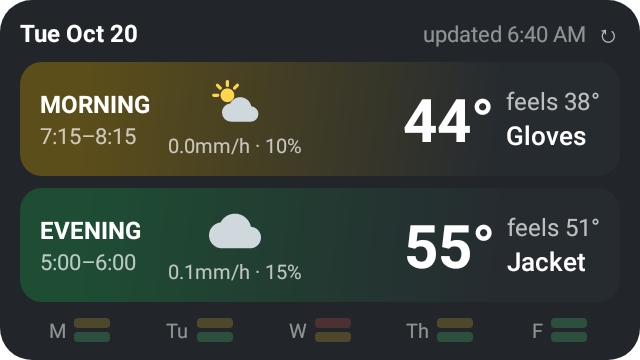
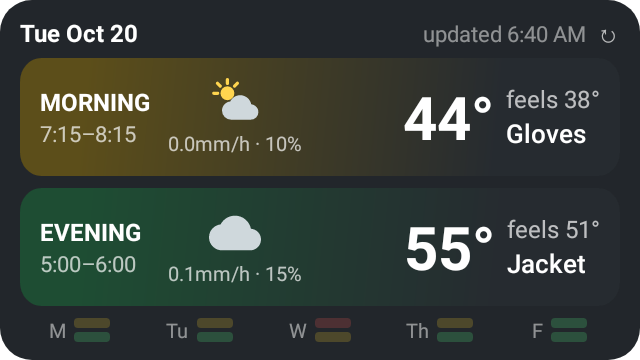
Add stopped feels-like and worst-case wind mode
Each row's third line now shows how the worst bucket feels standing
still (self-speed 0, ambient wind only) — the stopped-at-a-light number,
which is the true worst case in summer heat.

New windCombine mode "worst" (now the default): evaluate AT under both
quadrature (more wind) and max(self, ambient) (less wind) and keep
whichever lands further from the ideal pivot. Quadrature always yields
more wind, so this is exactly "full wind chill when cold, least wind
relief when hot" with no threshold discontinuity.

Claude-Session: https://claude.ai/code/session_01GL4r9EnAW5qPBhsxD8CyMR

diff --git a/app/src/main/java/com/bikeability/commute/domain/ComfortEngine.kt b/app/src/main/java/com/bikeability/commute/domain/ComfortEngine.kt
@@ -23,7 +23,7 @@ fun cToF(c: Double): Double = c * 9.0 / 5.0 + 32.0
 fun effectiveWindMs(selfSpeedMph: Double, ambientMs: Double, mode: WindCombine): Double {
     val selfMs = selfSpeedMph * MPH_TO_MS
     return when (mode) {
-        WindCombine.QUADRATURE -> sqrt(selfMs * selfMs + ambientMs * ambientMs)
+        WindCombine.QUADRATURE, WindCombine.WORST_CASE -> sqrt(selfMs * selfMs + ambientMs * ambientMs)
         WindCombine.MAX -> max(selfMs, ambientMs)
     }
 }
@@ -35,6 +35,10 @@ fun vapourPressureHpa(tempC: Double, relHumidityPct: Double): Double =
 /**
  * Steadman Apparent Temperature, radiation-inclusive form, with the effective
  * cycling airspeed in both the convective term and the solar-damping denominator.
+ *
+ * WORST_CASE mode evaluates both wind combines and keeps the AT further from
+ * the ideal pivot: quadrature always yields more wind than max, so this is
+ * "full wind chill when cold, least wind relief when hot" — no threshold.
  */
 fun apparentTemperature(
     tempC: Double,
@@ -43,7 +47,33 @@ fun apparentTemperature(
     shortwaveWm2: Double,
     params: EngineParams,
 ): AtBreakdown {
-    val ws = effectiveWindMs(params.selfSpeedMph, ambientWindMs, params.windCombine)
+    if (params.windCombine == WindCombine.WORST_CASE) {
+        val quad = steadman(tempC, relHumidityPct, ambientWindMs, shortwaveWm2, params, WindCombine.QUADRATURE)
+        val maxed = steadman(tempC, relHumidityPct, ambientWindMs, shortwaveWm2, params, WindCombine.MAX)
+        return maxOf(quad, maxed, compareBy { abs(cToF(it.apparentTempC) - params.idealPivotF) })
+    }
+    return steadman(tempC, relHumidityPct, ambientWindMs, shortwaveWm2, params, params.windCombine)
+}
+
+/** Feels-like for the same conditions while stopped: no self-generated airflow. */
+fun apparentTemperatureStopped(
+    tempC: Double,
+    relHumidityPct: Double,
+    ambientWindMs: Double,
+    shortwaveWm2: Double,
+    params: EngineParams,
+): AtBreakdown =
+    steadman(tempC, relHumidityPct, ambientWindMs, shortwaveWm2, params.copy(selfSpeedMph = 0.0), WindCombine.QUADRATURE)
+
+private fun steadman(
+    tempC: Double,
+    relHumidityPct: Double,
+    ambientWindMs: Double,
+    shortwaveWm2: Double,
+    params: EngineParams,
+    mode: WindCombine,
+): AtBreakdown {
+    val ws = effectiveWindMs(params.selfSpeedMph, ambientWindMs, mode)
     val e = vapourPressureHpa(tempC, relHumidityPct)
     val q = params.solarGainK * shortwaveWm2
     return AtBreakdown(
@@ -141,10 +171,12 @@ fun aggregateWindow(samples: List<WeatherSample>, params: EngineParams): WindowR
         .maxBy { (_, bd) -> abs(cToF(bd.apparentTempC) - params.idealPivotF) }
         .let { (s, bd) ->
             val feelsF = cToF(bd.apparentTempC)
+            val stopped = apparentTemperatureStopped(s.tempC, s.relHumidityPct, s.ambientWindMs, s.shortwaveWm2, params)
             WorstHour(
                 time = s.time,
                 airTempF = cToF(s.tempC),
                 feelsLikeF = feelsF,
+                stoppedFeelsLikeF = cToF(stopped.apparentTempC),
                 category = categoryFor(feelsF, params.tempBoundsF),
                 breakdown = bd,
             )

diff --git a/app/src/test/java/com/bikeability/commute/domain/ComfortEngineTest.kt b/app/src/test/java/com/bikeability/commute/domain/ComfortEngineTest.kt
@@ -77,6 +77,41 @@ class ComfortEngineTest {
         assertEquals(16.0 * MPH_TO_MS, effectiveWindMs(16.0, 2.0, WindCombine.MAX), 1e-9)
     }
 
+    // ---- stopped feels-like and worst-case wind ----
+
+    @Test
+    fun `stopped feels-like drops the self-generated airflow`() {
+        // Golden case 2 conditions: riding feels ~22.6 F, stopped only ambient 5 m/s.
+        val stopped = cToF(apparentTemperatureStopped(3.0, 70.0, 5.0, 100.0, params).apparentTempC)
+        assertEquals(27.4, stopped, 0.2)
+        // Golden case 1: hot sun with little wind relief when stopped.
+        val hotStopped = cToF(apparentTemperatureStopped(24.0, 60.0, 3.0, 700.0, params).apparentTempC)
+        assertEquals(80.4, hotStopped, 0.2)
+    }
+
+    @Test
+    fun `aggregate includes the stopped feels-like for the worst bucket`() {
+        val result = aggregateWindow(listOf(sample(tempC = 24.0, rh = 60.0, windMs = 3.0, shortwave = 700.0)), params)!!
+        // Stopped is hotter than riding in warm sun.
+        assertTrue(result.worstHour.stoppedFeelsLikeF > result.worstHour.feelsLikeF)
+    }
+
+    @Test
+    fun `worst-case wind takes less relief when hot and full chill when cold`() {
+        val worst = params.copy(windCombine = WindCombine.WORST_CASE)
+
+        // Hot: MAX combine (less wind, hotter AT) is further from the pivot.
+        val hotWorst = apparentTemperature(24.0, 60.0, 3.0, 700.0, worst)
+        val hotMax = apparentTemperature(24.0, 60.0, 3.0, 700.0, params.copy(windCombine = WindCombine.MAX))
+        assertEquals(hotMax.apparentTempC, hotWorst.apparentTempC, 1e-9)
+        assertTrue(hotWorst.apparentTempC > apparentTemperature(24.0, 60.0, 3.0, 700.0, params).apparentTempC)
+
+        // Cold: QUADRATURE (more wind, colder AT) is further from the pivot.
+        val coldWorst = apparentTemperature(3.0, 70.0, 5.0, 100.0, worst)
+        val coldQuad = apparentTemperature(3.0, 70.0, 5.0, 100.0, params)
+        assertEquals(coldQuad.apparentTempC, coldWorst.apparentTempC, 1e-9)
+    }
+
     // ---- categories and severity ----
 
     @Test

diff --git a/app/src/main/java/com/bikeability/commute/domain/Models.kt b/app/src/main/java/com/bikeability/commute/domain/Models.kt
@@ -17,7 +17,17 @@ enum class Severity { GREEN, YELLOW, RED }
 
 enum class Pictograph { SUNNY, PARTLY_CLOUDY, CLOUDY, RAIN }
 
-enum class WindCombine { QUADRATURE, MAX }
+enum class WindCombine {
+    QUADRATURE,
+    MAX,
+
+    /**
+     * Worst-case: evaluate AT under both QUADRATURE (more wind) and MAX
+     * (less wind) and keep whichever lands further from the ideal pivot.
+     * Equivalent to "less wind relief when hot, more wind chill when cold".
+     */
+    WORST_CASE,
+}
 
 /**
  * Gear-line thresholds in °F, each named for the decision it drives:
@@ -74,6 +84,8 @@ data class WorstHour(
     val time: LocalDateTime,
     val airTempF: Double,
     val feelsLikeF: Double,
+    /** Same bucket, self-speed 0 — how it feels stopped at a light. */
+    val stoppedFeelsLikeF: Double,
     val category: Category,
     val breakdown: AtBreakdown,
 )

diff --git a/app/src/main/java/com/bikeability/commute/widget/CommuteWidget.kt b/app/src/main/java/com/bikeability/commute/widget/CommuteWidget.kt
@@ -82,7 +82,7 @@ internal fun WidgetContent(data: WidgetData?) {
             .clickable(actionStartActivity<ForecastActivity>()),
     ) {
         Header(data)
-        Spacer(GlanceModifier.height(6.dp))
+        Spacer(GlanceModifier.height(4.dp))
         when {
             data == null -> CenteredMessage("Loading forecast…")
             data.morning == null && data.evening == null ->
@@ -94,7 +94,7 @@ internal fun WidgetContent(data: WidgetData?) {
                 Spacer(GlanceModifier.height(6.dp))
                 data.evening?.let { WindowRow(it, compact, GlanceModifier.defaultWeight()) }
                 if (data.week.isNotEmpty()) {
-                    Spacer(GlanceModifier.height(7.dp))
+                    Spacer(GlanceModifier.height(5.dp))
                     WeekStrip(data.week)
                 }
             }
@@ -223,7 +223,7 @@ private fun RegularWindowRow(w: WindowUi, modifier: GlanceModifier) {
         modifier = modifier
             .fillMaxWidth()
             .background(ImageProvider(severityBackground(w.severity)))
-            .padding(horizontal = 10.dp, vertical = 6.dp),
+            .padding(horizontal = 10.dp, vertical = 5.dp),
         verticalAlignment = Alignment.CenterVertically,
     ) {
         Column(modifier = GlanceModifier.width(64.dp)) {
@@ -257,7 +257,10 @@ private fun RegularWindowRow(w: WindowUi, modifier: GlanceModifier) {
                     w.categoryLabel,
                     style = TextStyle(color = white, fontSize = 13.sp, fontWeight = FontWeight.Medium),
                 )
-            }
+                w.stoppedFeelsLikeF?.let {
+                    Text("stopped $it°", style = TextStyle(color = faint, fontSize = 10.sp))
+                }
+}
         }
     }
 }

diff --git a/app/src/main/java/com/bikeability/commute/config/AppConfig.kt b/app/src/main/java/com/bikeability/commute/config/AppConfig.kt
@@ -26,7 +26,7 @@ data class WindowsCfg(
 @Serializable
 data class BikeCfg(
     val selfSpeedMph: Double = 16.0,
-    val windCombine: String = "quadrature", // or "max"
+    val windCombine: String = "worst", // or "quadrature" / "max"
 )
 
 @Serializable
@@ -76,10 +76,10 @@ data class AppConfig(
 
     fun toEngineParams(): EngineParams = EngineParams(
         selfSpeedMph = bike.selfSpeedMph,
-        windCombine = if (bike.windCombine.equals("max", ignoreCase = true)) {
-            WindCombine.MAX
-        } else {
-            WindCombine.QUADRATURE
+        windCombine = when (bike.windCombine.lowercase()) {
+            "max" -> WindCombine.MAX
+            "quadrature" -> WindCombine.QUADRATURE
+            else -> WindCombine.WORST_CASE
         },
         solarGainK = feelsLike.solarGainK,
         idealPivotF = thresholds.tempF.ideal,

diff --git a/app/src/main/java/com/bikeability/commute/settings/SettingsScreen.kt b/app/src/main/java/com/bikeability/commute/settings/SettingsScreen.kt
@@ -119,7 +119,11 @@ fun SettingsScreen(onBack: () -> Unit = {}) {
                 OutlinedButton(
                     onClick = {
                         form = form.copy(
-                            windCombine = if (form.windCombine == "quadrature") "max" else "quadrature",
+                            windCombine = when (form.windCombine) {
+                                "worst" -> "quadrature"
+                                "quadrature" -> "max"
+                                else -> "worst"
+                            },
                         )
                     },
                     modifier = Modifier.align(Alignment.CenterVertically),
@@ -329,7 +333,7 @@ data class FormState(
     val eveningStart: String = "17:00",
     val eveningEnd: String = "18:00",
     val selfSpeedMph: String = "16.0",
-    val windCombine: String = "quadrature",
+    val windCombine: String = "worst",
     val solarGainK: String = "0.08",
     val tooCold: String = "35",
     val gloves: String = "45",

diff --git a/app/src/test/java/com/bikeability/commute/widget/WidgetScreenshotTest.kt b/app/src/test/java/com/bikeability/commute/widget/WidgetScreenshotTest.kt
@@ -36,14 +36,14 @@ class WidgetScreenshotTest {
         updatedLabel = "6:52 AM",
         morning = WindowUi(
             windowLabel = "MORNING", rangeLabel = "7:15–8:15",
-            airTempF = 58, feelsLikeF = 61, categoryLabel = "Ideal",
+            airTempF = 58, feelsLikeF = 61, stoppedFeelsLikeF = 65, categoryLabel = "Ideal",
             severity = "GREEN", pictograph = "SUNNY",
             peakProbPct = 0, peakRateMmHr = 0.0, worstAtLabel = "7:15 AM",
             bdBaseF = 58.0, bdHumidityF = 4.1, bdWindF = -9.2, bdSolarF = 2.9, bdConstantF = -7.7,
         ),
         evening = WindowUi(
             windowLabel = "EVENING", rangeLabel = "5:00–6:00",
-            airTempF = 79, feelsLikeF = 84, categoryLabel = "Too hot",
+            airTempF = 79, feelsLikeF = 84, stoppedFeelsLikeF = 91, categoryLabel = "Too hot",
             severity = "RED", pictograph = "RAIN",
             peakProbPct = 90, peakRateMmHr = 1.2, worstAtLabel = "5:00 PM",
             bdBaseF = 79.0, bdHumidityF = 11.0, bdWindF = -9.6, bdSolarF = 3.6, bdConstantF = -7.7,

diff --git a/app/src/main/java/com/bikeability/commute/forecast/ForecastScreen.kt b/app/src/main/java/com/bikeability/commute/forecast/ForecastScreen.kt
@@ -178,6 +178,9 @@ private fun WindowCard(w: WindowUi) {
         Column {
             Text("feels ${w.feelsLikeF}°", color = dim, fontSize = 12.sp)
             Text(w.categoryLabel, color = white, fontSize = 13.sp, fontWeight = FontWeight.Medium)
+            w.stoppedFeelsLikeF?.let {
+                Text("stopped $it°", color = faint, fontSize = 10.sp)
+            }
         }
     }
 }

diff --git a/app/src/main/java/com/bikeability/commute/widget/WidgetData.kt b/app/src/main/java/com/bikeability/commute/widget/WidgetData.kt
@@ -48,6 +48,8 @@ data class WindowUi(
     val rangeLabel: String,     // "7:15–8:15"
     val airTempF: Int,
     val feelsLikeF: Int,
+    /** Same worst bucket, self-speed 0. Nullable so pre-upgrade caches render. */
+    val stoppedFeelsLikeF: Int? = null,
     val categoryLabel: String,
     val severity: String,       // Severity.name
     val pictograph: String,     // Pictograph.name
@@ -92,6 +94,7 @@ fun WindowResult.toUi(windowLabel: String, window: WindowCfg): WindowUi {
         rangeLabel = rangeLabel(window),
         airTempF = worstHour.airTempF.roundToInt(),
         feelsLikeF = worstHour.feelsLikeF.roundToInt(),
+        stoppedFeelsLikeF = worstHour.stoppedFeelsLikeF.roundToInt(),
         categoryLabel = worstHour.category.label,
         severity = severity.name,
         pictograph = pictograph.name,

diff --git a/app/src/test/java/com/bikeability/commute/forecast/ForecastScreenshotTest.kt b/app/src/test/java/com/bikeability/commute/forecast/ForecastScreenshotTest.kt
@@ -59,7 +59,7 @@ class ForecastScreenshotTest {
         severity: String, picto: String, prob: Int = 0, rate: Double = 0.0,
     ) = WindowUi(
         windowLabel = label, rangeLabel = if (label == "MORNING") "7:15–8:15" else "5:00–6:00",
-        airTempF = air, feelsLikeF = feels, categoryLabel = category,
+        airTempF = air, feelsLikeF = feels, stoppedFeelsLikeF = feels + 6, categoryLabel = category,
         severity = severity, pictograph = picto,
         peakProbPct = prob, peakRateMmHr = rate,
         worstAtLabel = if (label == "MORNING") "7:15 AM" else "5:00 PM",

diff --git a/commute-weather-widget-spec.md b/commute-weather-widget-spec.md
@@ -62,8 +62,9 @@ Properties: calm day → exactly self‑speed; any wind → strictly greater; li
 move it (8 mph ambient at 16 mph self → 17.9 mph effective); quadrature adds sublinearly, i.e.
 the "significant dampening" we wanted, for free.
 
-Config knob `windCombine` also allows `"max"` → `max(self_ms, ambient_ms)` as a fallback mode.
-Default is `"quadrature"`.
+Config knob `windCombine`: `"worst"` (default) evaluates AT under both quadrature and
+`max(self_ms, ambient_ms)` and keeps whichever lands further from the ideal pivot — full wind
+chill when cold, least wind relief when hot. `"quadrature"` and `"max"` force a single mode.
 
 ### 2.2 Vapour pressure (humidity term)
 
@@ -274,7 +275,7 @@ in Preferences DataStore. Edited through the settings screen (§6.4).
   },
   "bike": {
     "selfSpeedMph": 16.0,
-    "windCombine": "quadrature"        // or "max"
+    "windCombine": "worst"             // or "quadrature" / "max"
   },
   "feelsLike": {
     "solarGainK": 0.08